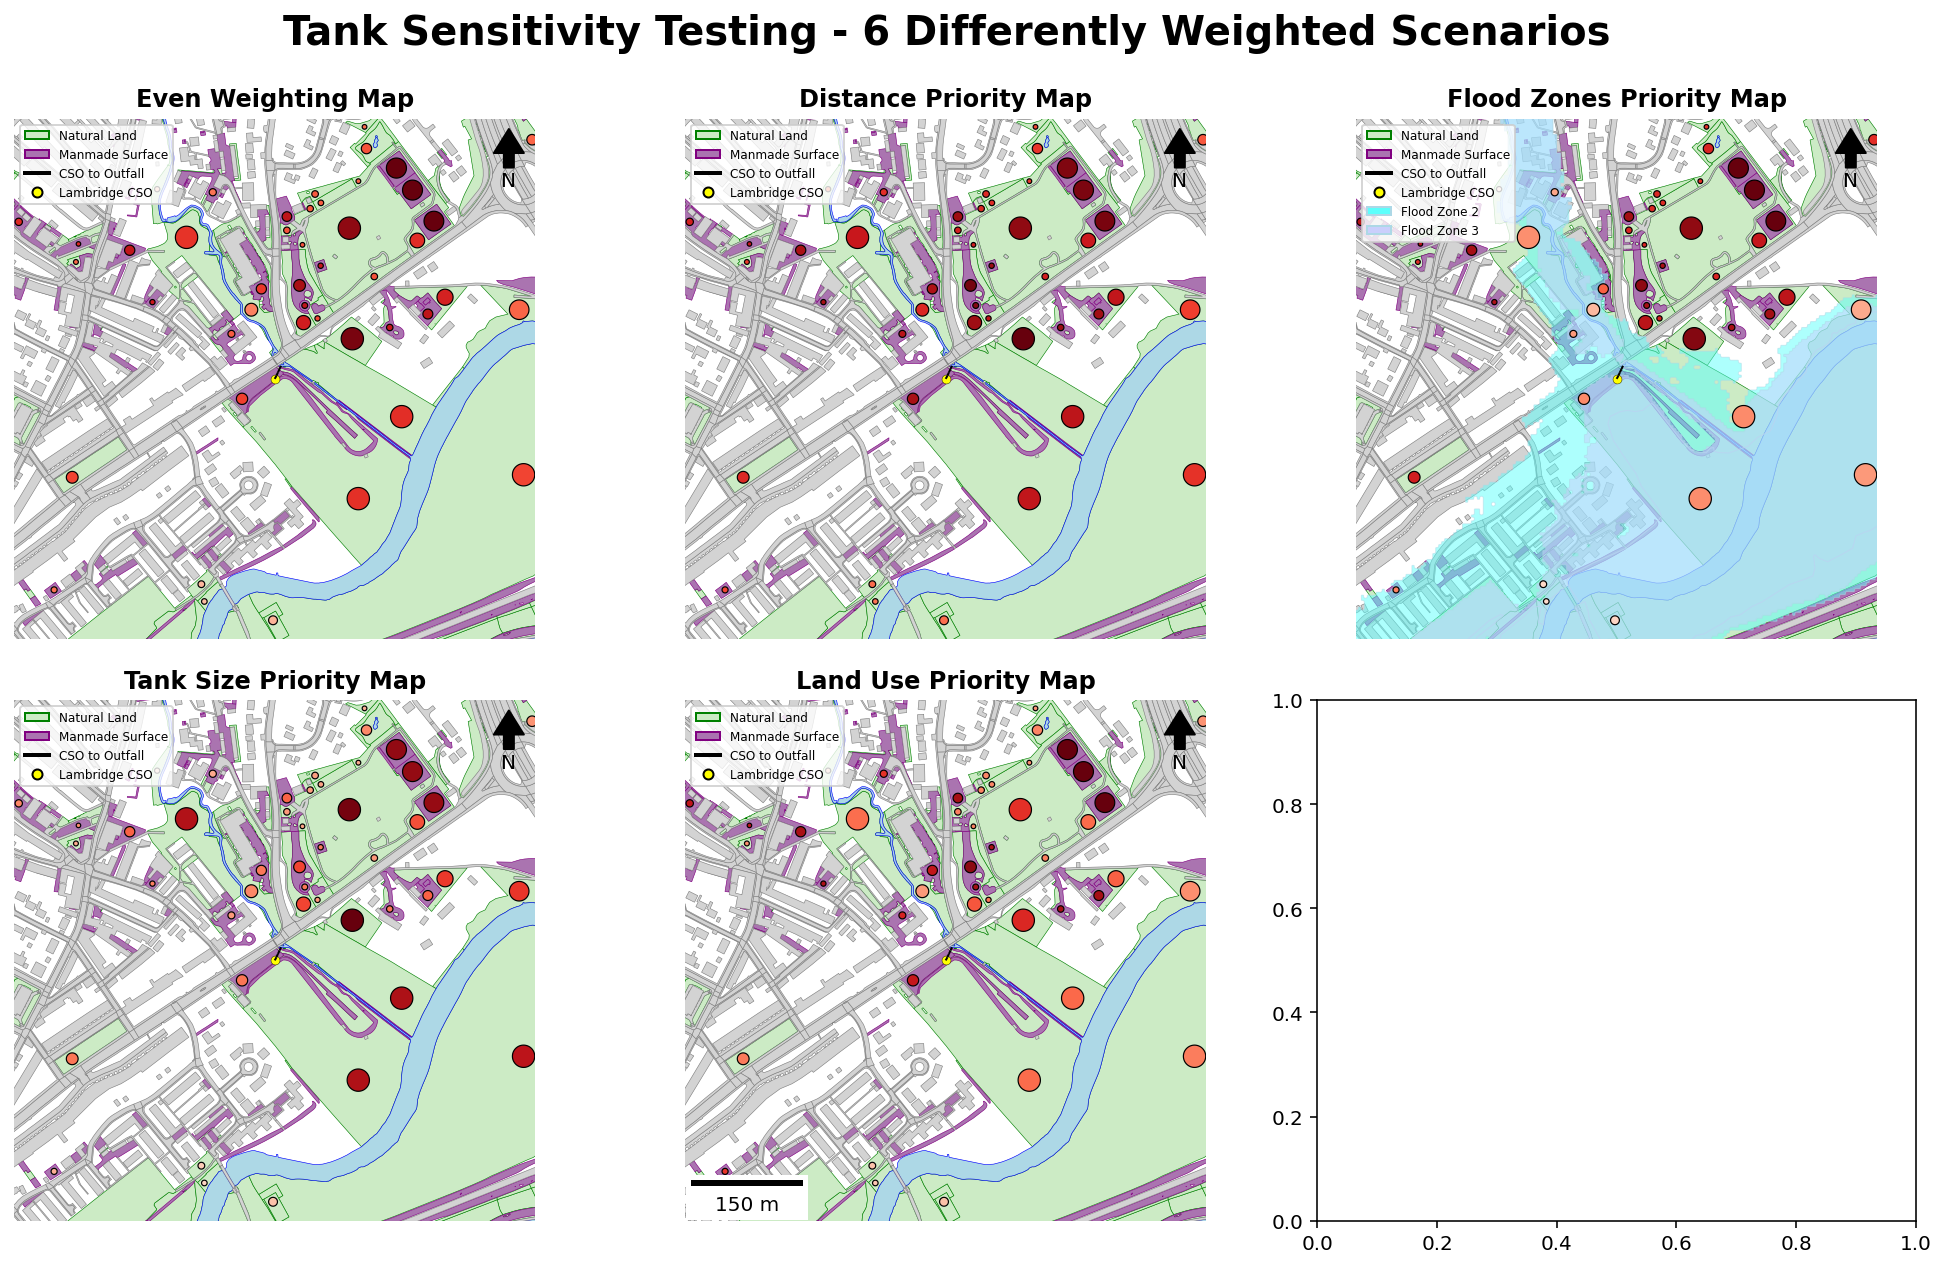
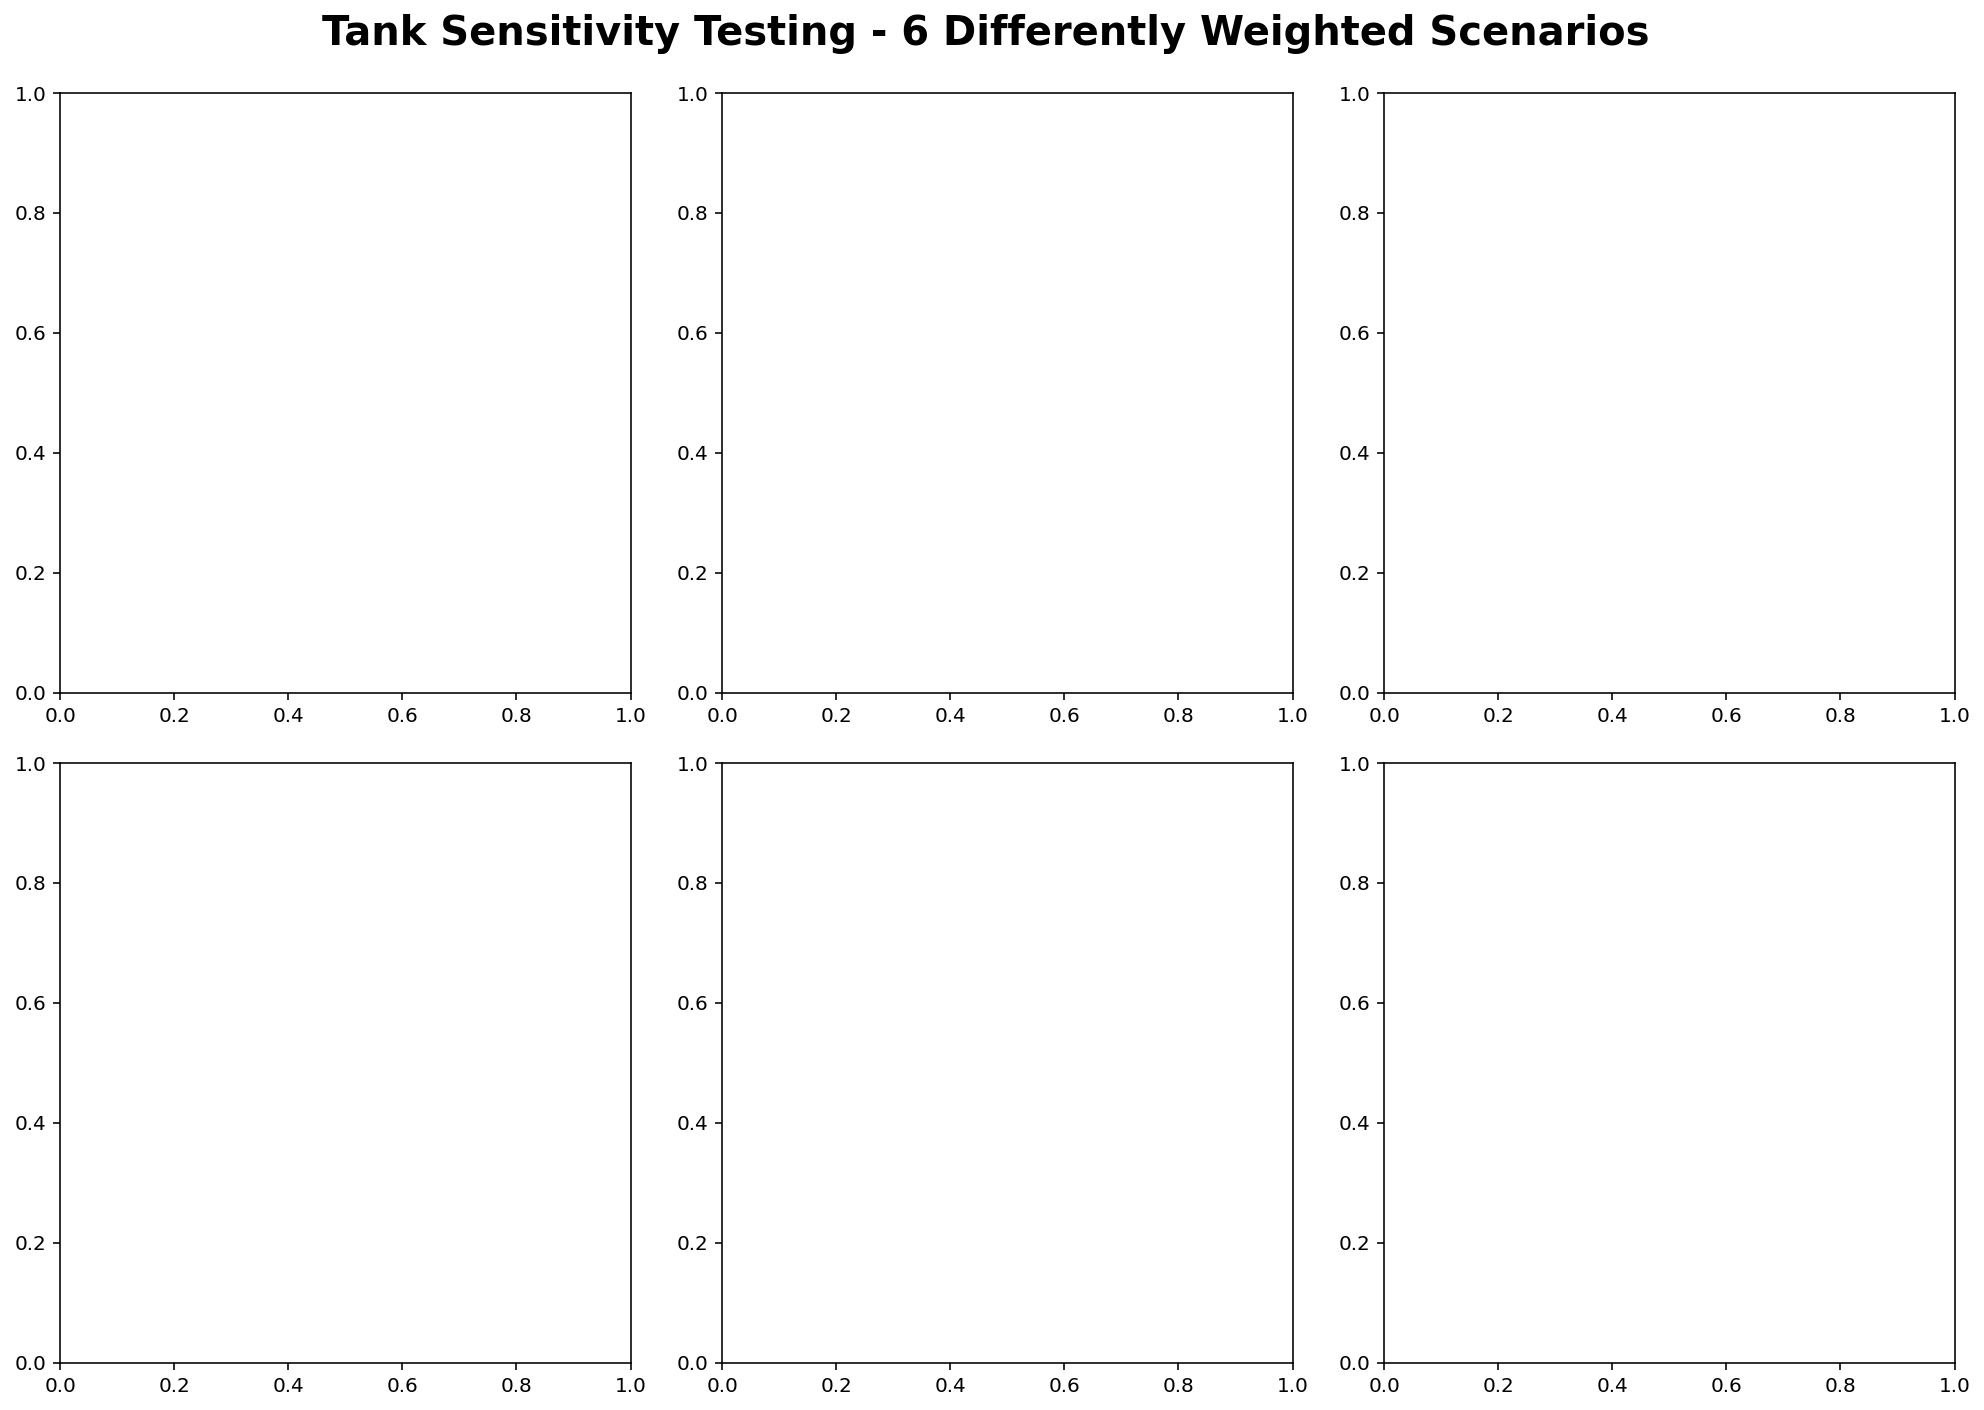
need to change the position of the axes so it looks nice

diff --git a/dissertation-code.py b/dissertation-code.py
@@ -483,11 +483,17 @@ for i, row in MIC_landuse.iterrows():
 # PLOTTING ALL 5 SCENARIOS + CALCS USING LOOP -----------------------------------
 
 # plot the dataset - 5 different maps -----------
-fig, my_ax = subplots(2, 3, figsize=(14, 9))
+fig, my_ax = subplots(2, 3, figsize=(14, 10))
 fig.suptitle('Tank Sensitivity Testing - 6 Differently Weighted Scenarios ', fontsize=20, weight='bold')
 
 #flattening 2D array into 1D - so that its easy to loop
 axes = my_ax.flatten()
+
+#want to hide the 6th plot so that its not visible (not using)
+
+# top 3 maps all evenly spaced out - auto
+# bottom 2 maps centred under the 3 top ones - set position
+
 
 
 # FINAL WEIGHTING SCORE LOOP -------
